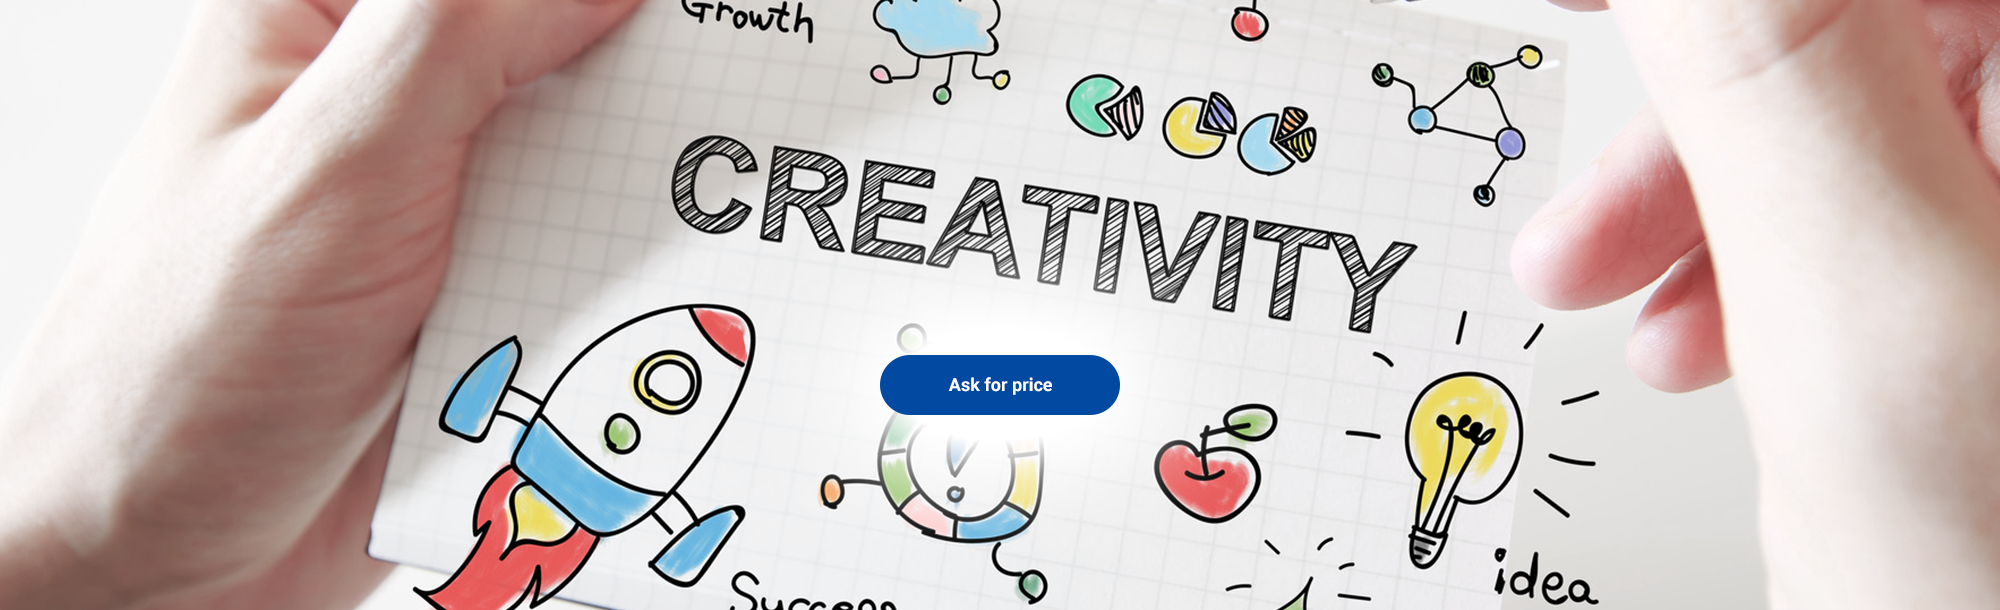
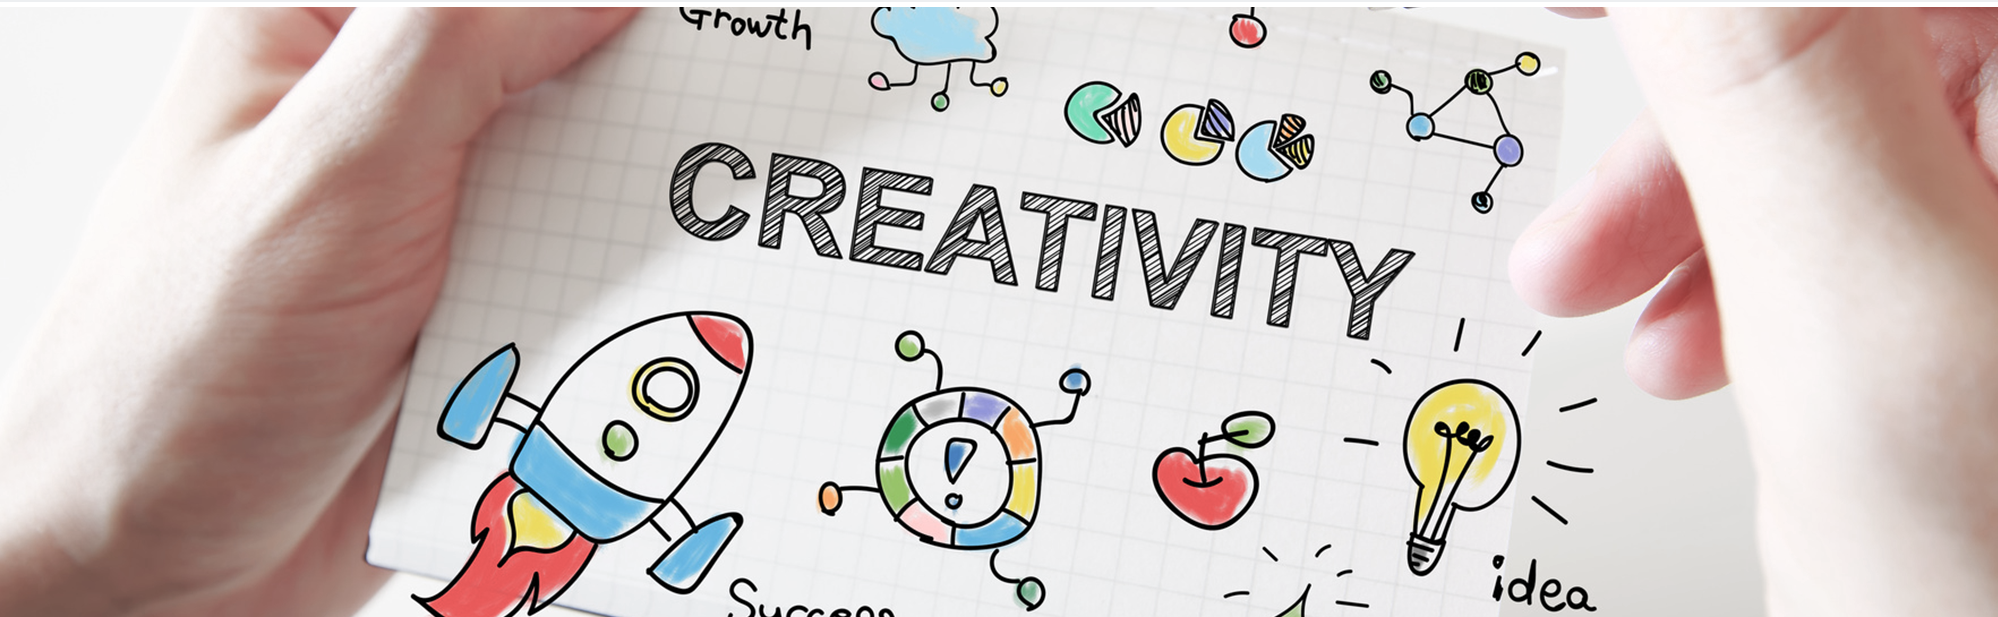
completed creativity section

diff --git a/index.html b/index.html
@@ -91,6 +91,76 @@
     <!-- End Header Section -->
 
 
+    <!-- Start Top Section -->
+    <section class="top">
+      <div class="container">
+        <div class="row">
+          <div class="col-lg-12">
+            <h1>Check our creativity</h1>
+            <p>We are the best and we know it!</p>
+            <a href="#" class="btn-top">Ask for price</a>
+            <img src="img/macbook.png" alt="" class="img-fluid">
+          </div>
+        </div>
+      </div>
+    </section>
+    <!-- Start Top Section -->
+
+
+    <!-- Start Service Section -->
+    <section class="service">
+      <div class="container">
+        <div class="row">
+          <!-- Start item 1 -->
+          <div class="col-lg-3">
+            <img src="img/message.png" alt="" class="img-fluid">
+            <h4>Lorem ipsum</h4>
+            <p>Cras vel eleifend nisl, ac efficitur purus. Vestibulum vestibulum aliquam lectusmattis ac.</p>
+          </div>
+          <!-- End item 1 -->
+
+            <!-- Start item 2 -->
+            <div class="col-lg-3">
+              <img src="img/eget.png" alt="" class="img-fluid">
+              <h4>Aenean eget</h4>
+              <p>Donec sagittis accumsan diam, eu efficitur nunc lobortis eget. Pellentesque posuere.</p>
+            </div>
+            <!-- End item 2 -->
+
+              <!-- Start item 3 -->
+          <div class="col-lg-3">
+            <img src="img/quam.png" alt="" class="img-fluid">
+            <h4>Nulla felis quam</h4>
+            <p>Nulla felis quam, malesuada quis tincidunt vitae, iaculis id massa. Mauris pellentesque.</p>
+          </div>
+          <!-- End item 3 -->
+
+            <!-- Start item 4 -->
+            <div class="col-lg-3">
+              <img src="img/mauris.png" alt="" class="img-fluid" style="height:116px">
+              <h4>Mauris</h4>
+              <p>Pellentesque posuere nisl a posuere mattis. Quisque nuet congue at, variuse. </p>
+            </div>
+            <!-- End item 4 -->
+        </div>
+      </div>
+    </section>
+    <!-- Start Service Section -->
+
+
+    <!-- Start Creativity Section -->
+    <section class="creativity">
+      <div class="container-fluid">
+        <div class="row">
+          <div class="col-lg-12">
+              <a href="#" class="btn-creativity">Ask for price</a>
+          </div>
+        </div>
+      </div>
+    </section>
+    <!-- End Creativity Section -->
+
+
    
     <!-- Start Bootstrap JS Link -->
     <script src="https://cdn.jsdelivr.net/npm/bootstrap@5.0.2/dist/js/bootstrap.bundle.min.js"></script>

diff --git a/css/style.css b/css/style.css
@@ -10,6 +10,9 @@ ul li{
     padding: 0;
     margin: 0;
 }
+a{
+    text-decoration: none;
+}
 /* End Global CSS */
 
 /* Start Header Section */
@@ -64,3 +67,83 @@ header .fa-twitter{
     overflow-X: hidden;
 }
 /* Start Header Section */
+
+/* Start Top Section */
+.top{
+    padding: 100px 0 35px;
+    background: linear-gradient(#fdfdfd, #e6e8ec);
+}
+.top h1{
+    text-align: center;
+    font-size: 50px;
+    color: #0149a1;
+    font-weight: 700;
+    margin: 0;
+}
+.top p{
+    text-align: center;
+    font-size: 25px;
+    font-weight: 300;
+    color: #5d6981;
+}
+.top .btn-top{
+    display: block;
+    text-align: center;
+    color: #fff;
+    background: #ff2d55;
+    width: 175px;
+    margin: 75px auto;
+    padding: 8px 30px;
+    border-radius: 55px;
+}
+/* End Top Section */
+
+/* Start Service Section */
+.service{
+    background: #fff;
+    padding: 0 0 75px;
+}
+.service img{
+    display: block;
+    margin: 0 auto;
+}
+.service h4{
+    text-align: center;
+    padding: 20px 0px 10px;
+    color: rgb(93, 105, 129);
+    font-size: 20px;
+    font-weight: 600;
+}
+.service p{
+    text-align: center;
+    font-size: 14px;
+    color: #7c8ca0;
+    padding: 0 30px;
+}
+/* End Service Section */
+
+/* Start Creativity Section */
+.creativity{
+    background: url(../img/creativity.png) no-repeat top center;
+    background-size: cover;
+    padding: 30px 0;
+}
+.btn-creativity{
+    display: block;
+    width: 175px;
+    margin: 75px auto;
+    text-align: center;
+    background: #0149a1;
+    color: #fff;
+    padding: 8px 30px;
+    border-radius: 55px;
+    margin-top: 240px;
+    transition: .5s ease-in-out;
+}
+a:hover {
+    color: #fff;
+}
+.btn-creativity:hover{
+    box-shadow: 5px 5px 10px 25px #fff;
+}
+/* End Creativity Section */
